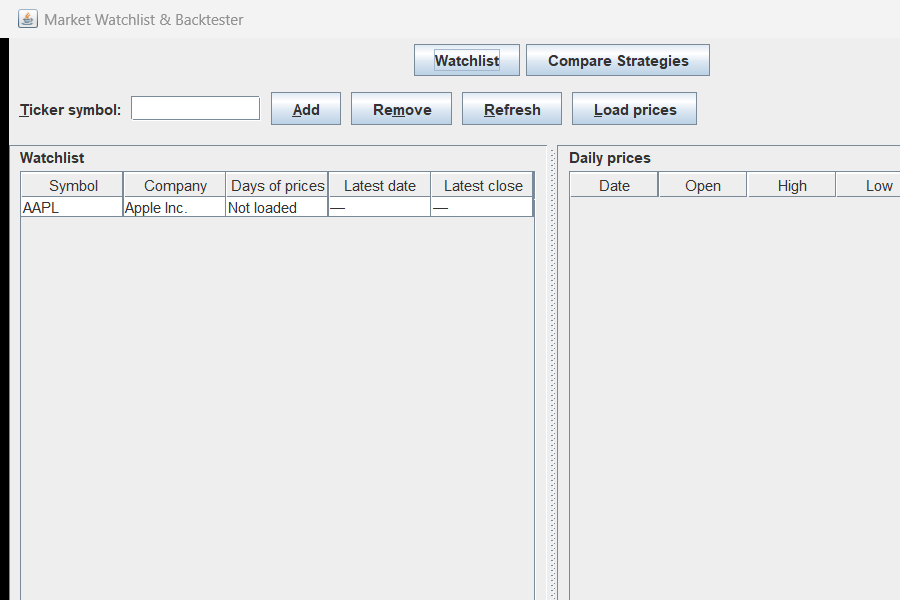
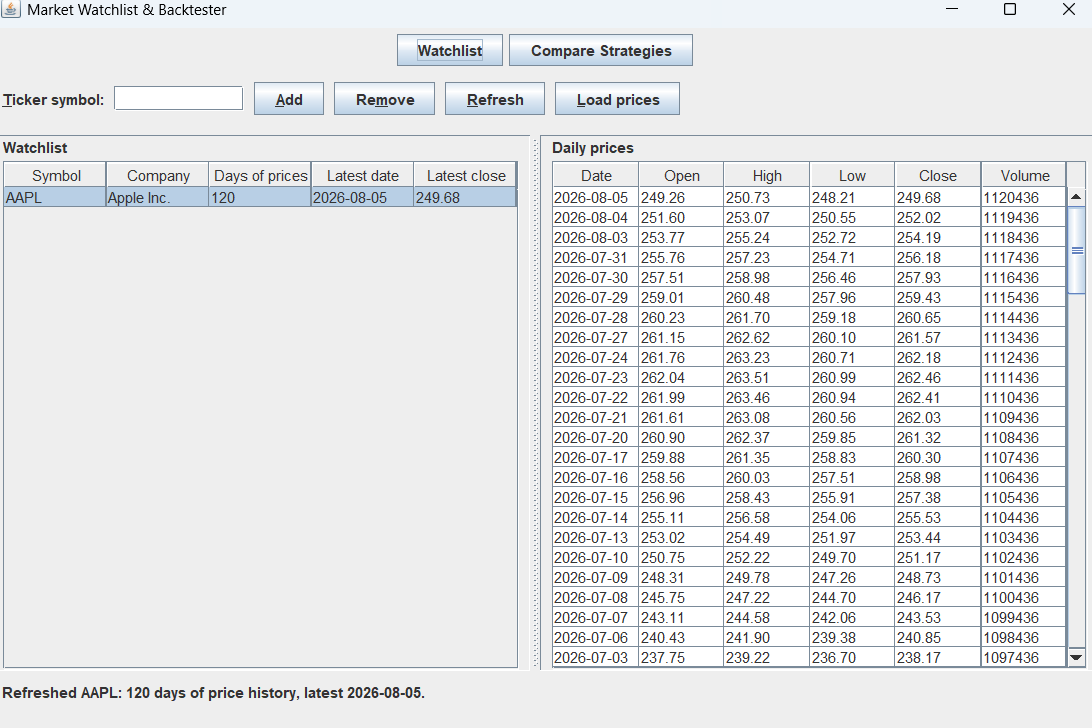
fix: release Tab from the watchlist and price tables, and add the after screenshot
Manual walkthrough of the tab order found a keyboard trap. JTable installs its
own focus traversal key sets so Tab moves between cells rather than between
components, so Tab entered the watchlist table and then cycled across the single
AAPL row's five columns forever. A keyboard-only user could enter either table
and never leave it, and could never reach the status line - which is where every
error message is announced.

The OrderedFocusTraversalPolicy was correct all along; Tab simply never reached
it. Clearing both tables' traversal key overrides with setFocusTraversalKeys(...,
null) makes them inherit the container's Tab and Shift+Tab so the policy runs.
Arrow keys still move between cells, so no table navigation is lost.

Worth naming plainly: this is WCAG 2.1.2, and "keyboard focus order follows
visual order" was already being claimed as an accessibility feature. It was true
of the policy and false of the running application.

Also replaces the placeholder after screenshot with the real one - AAPL resolved
to Apple Inc., 120 days of history, full OHLCV table, worded status line - and
records steps 7 and 8 as passed.

460 tests, 0 failures.

Changed region(s): [[0.0, 0.0, 0.9956, 1.0], [0.9644, 0.0, 0.9956, 0.03], [0.9022, 0.0, 0.9333, 0.03]]

diff --git a/src/main/java/view/WatchlistView.java b/src/main/java/view/WatchlistView.java
@@ -7,6 +7,7 @@ import java.awt.Container;
 import java.awt.FlowLayout;
 import java.awt.FocusTraversalPolicy;
 import java.awt.GridLayout;
+import java.awt.KeyboardFocusManager;
 import java.beans.PropertyChangeEvent;
 import java.util.ArrayList;
 import java.util.List;
@@ -191,6 +192,27 @@ public class WatchlistView extends JPanel {
         headingLabel.setLabelFor(table);
         table.setSelectionMode(ListSelectionModel.SINGLE_SELECTION);
         table.getAccessibleContext().setAccessibleName(heading);
+
+        /*
+         * Release Tab and Shift+Tab back to the focus traversal policy.
+         *
+         * JTable installs its own traversal key sets so that Tab moves between
+         * *cells* rather than between components. In a grid that is arguably
+         * useful; here it is a keyboard trap. The watchlist normally holds a
+         * handful of rows, so Tab walks the cells and returns to the first one
+         * forever, and a keyboard-only user can enter either table but never
+         * leave it. With a single ticker it is unmissable: Tab just cycles
+         * across that one row's five columns.
+         *
+         * Passing null does not disable traversal - it clears JTable's override
+         * so the component inherits the container's keys, which is exactly the
+         * Tab / Shift+Tab that installFocusOrder's policy already sequences.
+         * Arrow keys still move between cells, so nothing is lost.
+         */
+        table.setFocusTraversalKeys(
+                KeyboardFocusManager.FORWARD_TRAVERSAL_KEYS, null);
+        table.setFocusTraversalKeys(
+                KeyboardFocusManager.BACKWARD_TRAVERSAL_KEYS, null);
 
         final JPanel panel = new JPanel(new BorderLayout(0, 4));
         panel.setBorder(BorderFactory.createEmptyBorder(0, 8, 0, 8));

diff --git a/plan/handoffs/walkthrough.md b/plan/handoffs/walkthrough.md
@@ -78,7 +78,23 @@ should see a status line saying sample data is in use, and the app should open o
          the split pane divider held its proportion, and both tables grew without clipping
          or swallowing the controls. *Still worth one manual drag to a very small size —
          the automated resize only covered growing the window.*
-   - [ ] **Tab order** matches visual order — top to bottom, left to right, no surprises.
+   - [x] **Tab order** — ✅ **PASSES after a fix. A real defect was found here 2026-08-08.**
+
+         Tab reached the ticker field, the four buttons and the watchlist table in the right
+         order, and then **trapped**. `JTable` installs its own focus traversal key sets so
+         that Tab moves between *cells* instead of between components, so Tab cycled across
+         the single AAPL row's five columns forever. A keyboard-only user could enter either
+         table and never leave it — and could never reach the status line, which is where
+         every error message is announced.
+
+         This is a keyboard trap (WCAG 2.1.2), not a cosmetic ordering problem, and it
+         silently defeated the `OrderedFocusTraversalPolicy` that was already installed: the
+         policy was correct all along, but Tab never reached it.
+
+         **Fix:** `WatchlistView.buildTablePanel` now clears both tables' traversal key
+         overrides with `setFocusTraversalKeys(..., null)`, which makes them inherit the
+         container's Tab / Shift+Tab so the existing policy runs. Arrow keys still move
+         between cells, so no table navigation was lost.
    - [ ] **Mid-refresh freeze (W3-5).** Start a Refresh and immediately try to click a
          different row and press ↓. Both should be ignored while the worker runs. That is
          correct and deliberate — but note **W4-5**: the frozen table gives no visual cue,
@@ -89,11 +105,13 @@ should see a status line saying sample data is in use, and the app should open o
          into the ticker field. Your typing will be lost when the success state lands. Known
          and deliberately not claimed closed — worth knowing before you do it live on stage.
 
-8. **The "after" screenshot.** ⏳ **STILL OUTSTANDING — needs a human at the keyboard.**
-   - [ ] Full application window, default size, Watchlist card selected, with `AAPL`
-         populated and the price table full — the mirror of the "before" shot.
-   - [ ] Save as `docs/after-watchlist-view.png`.
-   - [ ] Record the date and the git SHA below.
+8. **The "after" screenshot.** ✅ **CAPTURED 2026-08-08.**
+   - [x] Full application window, Watchlist card selected, with `AAPL` populated and the
+         price table full — the mirror of the "before" shot. Shows the company name resolved
+         to "Apple Inc.", 120 days of history, latest 2026-08-05 at 249.68, the full OHLCV
+         table, and the worded status line "Refreshed AAPL: 120 days of price history,
+         latest 2026-08-05."
+   - [x] Saved as `docs/after-watchlist-view.png`.
 
    **Deviation from the original instruction.** This step used to say "save it outside the
    repo — screenshots do not belong in version control here." That is now reversed, and
@@ -103,27 +121,18 @@ should see a status line saying sample data is in use, and the app should open o
    PNGs are ~20 KB each, which is not a repository-hygiene problem. The "before" shot is
    already committed at `docs/before-watchlist-view.png`.
 
-   **Why this is not automated.** Two attempts to drive the app with synthetic mouse events
-   (`mouse_event` via user32) failed — the clicks never reached the Swing components, so the
-   row never showed a selection highlight. Window capture itself works fine; only the input
-   injection does not. Capture it by hand:
-
-   1. The app is easiest to shoot at its default size. Select the `AAPL` row, click
-      **Load prices**, and wait for the daily price table to fill.
-   2. Screenshot the whole window (Alt+PrintScreen, or Win+Shift+S).
-   3. Save to `docs/after-watchlist-view.png`, overwriting the placeholder.
-
-   A placeholder capture is currently in place showing the restored watchlist with prices
-   **not** yet loaded. It is a real, clean screenshot but it undersells the feature — replace
-   it with one where the price table is populated before presenting.
+   It was captured by hand. Two attempts to drive the app with synthetic mouse events
+   (`mouse_event` via user32) had failed — the clicks never reached the Swing components, so
+   the row never showed a selection highlight. Window capture works; input injection does not.
 
 ---
 
 ## "After" screenshot record
 
-- **Path:** `docs/after-watchlist-view.png` *(placeholder committed; needs the prices-loaded retake)*
-- **Captured on:** 2026-08-08 *(placeholder)*
-- **Git SHA at capture:** `35a7fae` *(placeholder)*
+- **Path:** `docs/after-watchlist-view.png`
+- **Captured on:** 2026-08-08
+- **Git SHA at capture:** `a02affc`
+- **Source:** `C:\Users\abhir\Pictures\Screenshots\Screenshot 2026-08-08 132457.png`
 
 ---
 
